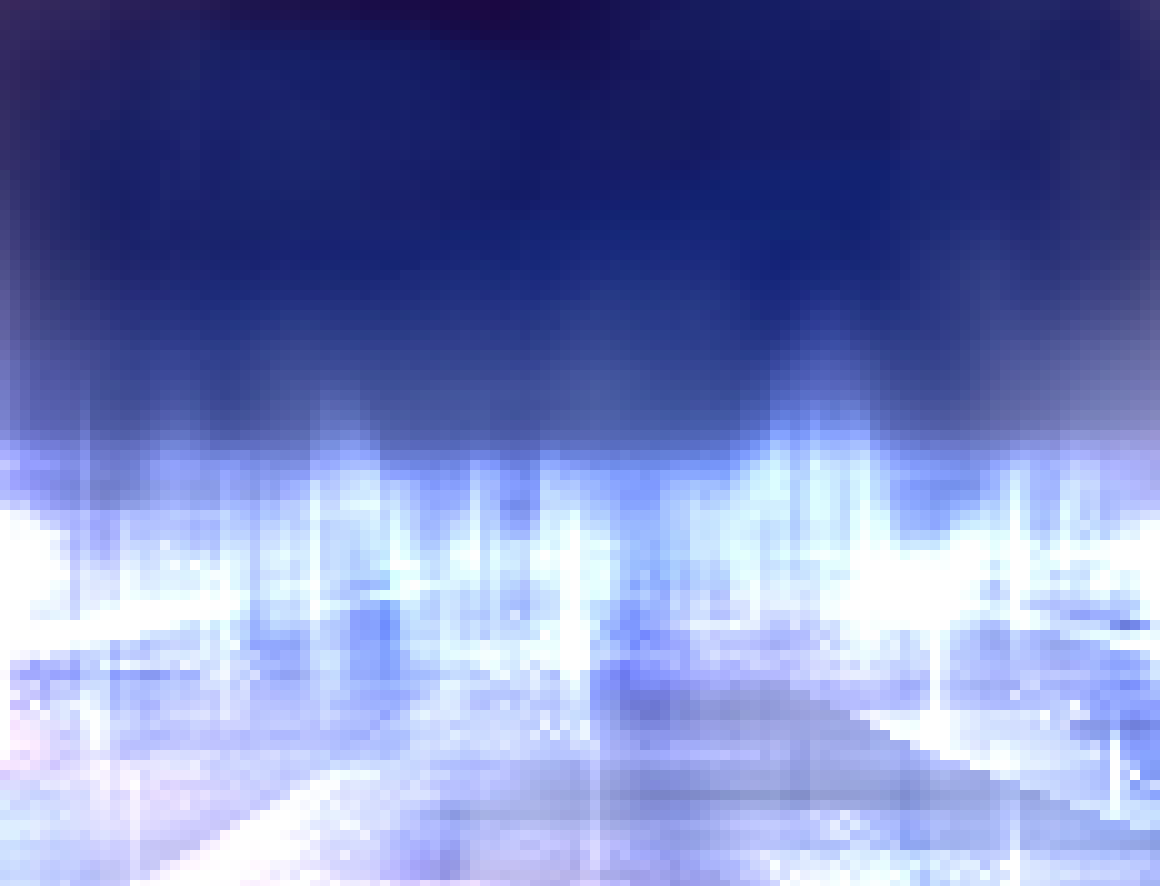
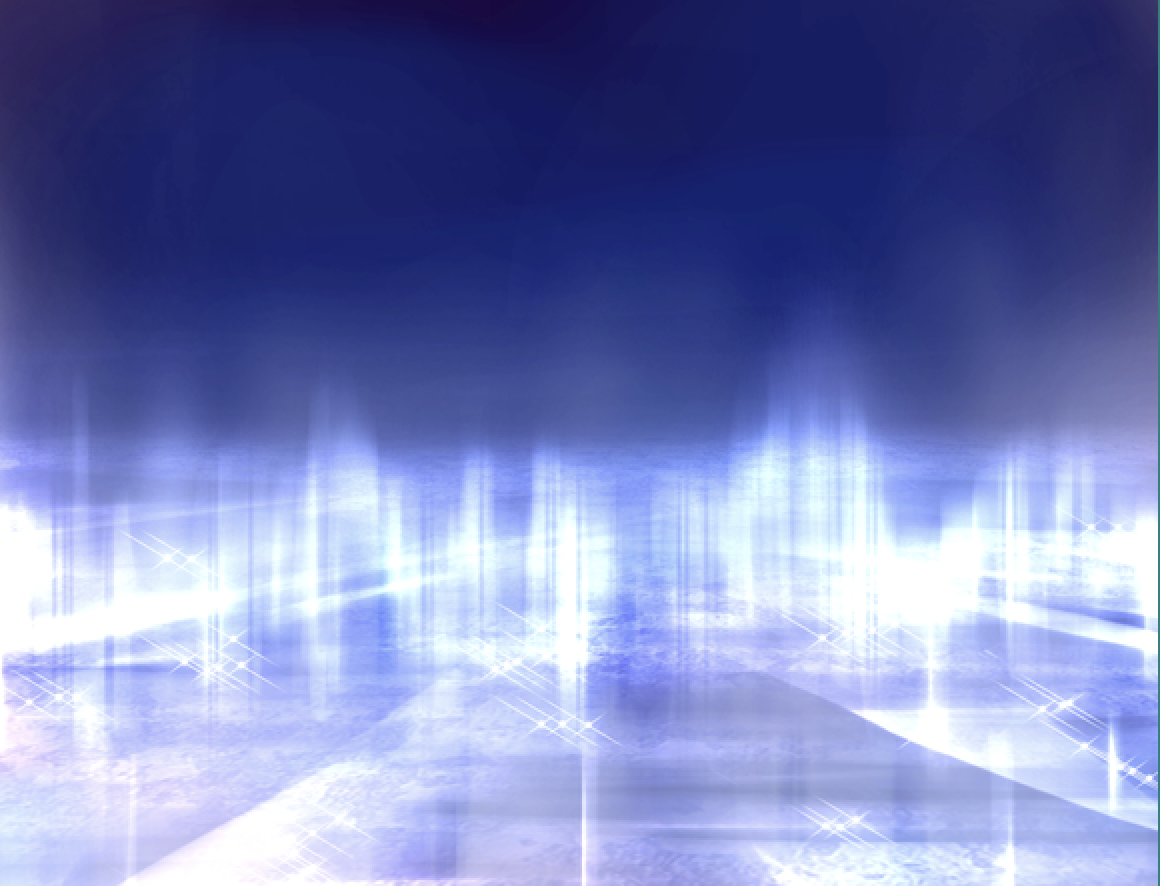
Change a few stage and overlay images.

diff --git a/screens/startQuest.js b/screens/startQuest.js
@@ -12,6 +12,7 @@ const StartQuest = ({ navigation }) => {
       title: 'FEC',
       boss:`slime`,
       stage: 'patternedStage',
+      overlay: 'caveOverlay',
       health: 2000,
       currentHealth: 2000,
       reward: 'Pizza party',
@@ -65,7 +66,8 @@ const StartQuest = ({ navigation }) => {
       id: 2,
       title: 'SDC',
       boss:'dragon',
-      stage: 'blueSkyStage',
+      stage: 'grassStage',
+      overlay: 'lightForestOverlay',
       health: 10500,
       currentHealth: 1600,
       reward: 'Movie night',
@@ -109,55 +111,55 @@ const StartQuest = ({ navigation }) => {
           quests: [],
         }
       ]},
-    {
-      id: 3,
-      title: 'Blue Ocean',
-      boss:'alien',
-      stage: 'rocksStage',
-      health: 7400,
-      currentHealth: 2500,
-      reward: 'Video games!',
-      tasks: [
-        {
-          id: 1,
-          title: 'task1',
-          size: 'XL'
-        },
-        {
-          id: 2,
-          title: 'task2',
-          size: 'XL',
-        },
-        {
-          id: 3,
-          title: 'task3',
-          size: 'L',
-        }
-      ],
-      players: [
-        {
-          id: 1,
-          name: 'mediocrekick',
-          level: 58,
-          photo: 'fake-person-1.jpg',
-          quests: [],
-        },
-        {
-          id: 2,
-          name: 'sunnyking',
-          level: 29,
-          photo: 'fake-person-2.jpg',
-          quests: [],
-        },
-        {
-          id: 3,
-          name: 'toolpanda',
-          level: 62,
-          photo: 'fake-person-3.jpg',
-          quests: [],
-        }
-      ]
-    }
+    // {
+    //   id: 3,
+    //   title: 'Blue Ocean',
+    //   boss:'alien',
+    //   stage: 'rocksStage',
+    //   health: 7400,
+    //   currentHealth: 2500,
+    //   reward: 'Video games!',
+    //   tasks: [
+    //     {
+    //       id: 1,
+    //       title: 'task1',
+    //       size: 'XL'
+    //     },
+    //     {
+    //       id: 2,
+    //       title: 'task2',
+    //       size: 'XL',
+    //     },
+    //     {
+    //       id: 3,
+    //       title: 'task3',
+    //       size: 'L',
+    //     }
+    //   ],
+    //   players: [
+    //     {
+    //       id: 1,
+    //       name: 'mediocrekick',
+    //       level: 58,
+    //       photo: 'fake-person-1.jpg',
+    //       quests: [],
+    //     },
+    //     {
+    //       id: 2,
+    //       name: 'sunnyking',
+    //       level: 29,
+    //       photo: 'fake-person-2.jpg',
+    //       quests: [],
+    //     },
+    //     {
+    //       id: 3,
+    //       name: 'toolpanda',
+    //       level: 62,
+    //       photo: 'fake-person-3.jpg',
+    //       quests: [],
+    //     }
+    //   ]
+    // }
   ]);
 
 

diff --git a/screens/newQuest.js b/screens/newQuest.js
@@ -72,16 +72,16 @@ const NewQuest = ({ navigation }) => {
     },
     {
       id: 3,
-      name: 'iceCastleOverlay',
+      name: 'hillsOverlay',
     },
     {
       id: 4,
       name: 'lightForestOverlay',
     },
-    // {
-    //   id: 5,
-    //   name: 'skyOverlay',
-    // },
+    {
+      id: 5,
+      name: 'skyOverlay',
+    },
     {
       id: 6,
       name: 'desertOverlay',
@@ -287,7 +287,6 @@ const NewQuest = ({ navigation }) => {
             setOpen={setOpen}
             setValue={setSelectedPlayers}
             setItems={setItems}
-            // listmode="SCROLLVIEW"
             searchable = {true}
             multiple={true}
             placeholder="Add Players"

diff --git a/images.js b/images.js
@@ -17,7 +17,6 @@ export const images = {
   grassTowerBackground: require('./images/grass-tower-background.png'),
   grassTowerBackground2: require('./images/grass-tower-background2.png'),
   grassTowerBackground3: require('./images/grass-tower-background3.png'),
-  chamberBackground: require('./images/chamber-background.png'),
   swampStage: require('./images/swamp-stage.png'),
   grassStage: require('./images/grass-stage.png'),
   lavaStage: require('./images/lava-stage.png'),
